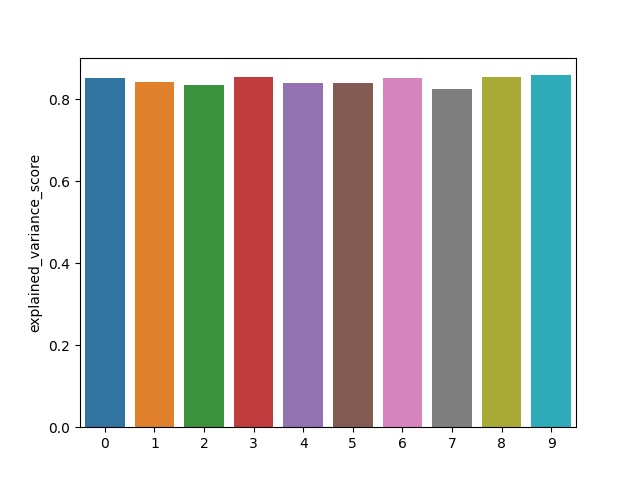
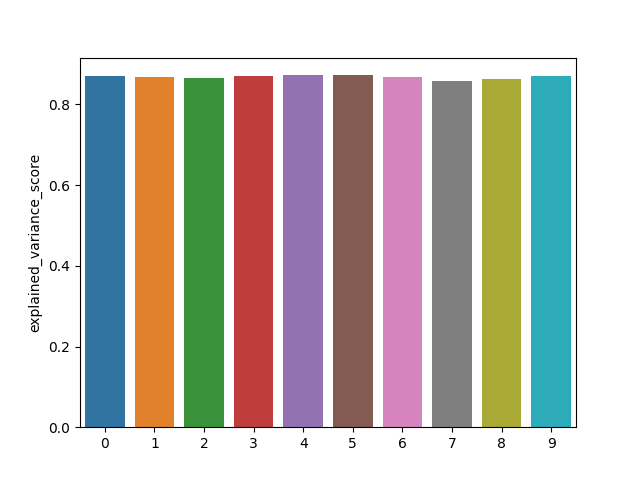
results

diff --git a/main.py b/main.py
@@ -1,4 +1,5 @@
 from Models.RNModels.rn_model import RNModel
+from Models.CNNRNModel.cnn_rn_model import CNNRNModel
 from Models.ADABoostModels.ada_boost_model import ADABoostModel
 from Models.RandomForestModels.random_forest_model import RandomForestModel
 from Models.SVMModel.svm_model import SVMModel
@@ -11,29 +12,32 @@ if __name__ == '__main__':
     ml_comparer_obj = MLComparer()
     ml_comparer_obj.initialize()
 
-    trained_rn_model = ml_comparer_obj.compare_training("RM_Model", RNModel(), 70)
+    trained_rn_model = ml_comparer_obj.compare_training("RM_Model", RNModel(), 5)
     ml_comparer_obj.compare_benchmark("RM_Model", trained_rn_model)
+
+    trained_cnn_rn_model = ml_comparer_obj.compare_training("CNN_RM_Model", CNNRNModel(), 10)
+    ml_comparer_obj.compare_benchmark("CNN_RM_Model", trained_cnn_rn_model)
     
-    # trained_adaboost_model = ml_comparer_obj.compare_training("ADABoost_Model", ADABoostModel(), 10)
-    # ml_comparer_obj.compare_benchmark("ADABoost_Model", trained_adaboost_model)
-    #
-    # trained_svm_model = ml_comparer_obj.compare_training("SVM_Model", SVMModel(), 10)
-    # ml_comparer_obj.compare_benchmark("SVM_Model", trained_svm_model)
-    #
-    # trained_random_forest_model = ml_comparer_obj.compare_training("RandomForest_Model", RandomForestModel(), 10)
-    # ml_comparer_obj.compare_benchmark("RandomForest_Model", trained_random_forest_model)
+    trained_adaboost_model = ml_comparer_obj.compare_training("ADABoost_Model", ADABoostModel(), 10)
+    ml_comparer_obj.compare_benchmark("ADABoost_Model", trained_adaboost_model)
+
+    trained_svm_model = ml_comparer_obj.compare_training("SVM_Model", SVMModel(), 3)
+    ml_comparer_obj.compare_benchmark("SVM_Model", trained_svm_model)
+
+    trained_random_forest_model = ml_comparer_obj.compare_training("RandomForest_Model", RandomForestModel(), 10)
+    ml_comparer_obj.compare_benchmark("RandomForest_Model", trained_random_forest_model)
 
     # Compare training of KNN models with different k values
 
-    # trained_knn_uniform_model = ml_comparer_obj.compare_training("KNN_Uniform_Model", KNNModel(weights="uniform"),  15,
-    #                                                              KNNManager.train_model_get_specs)
+    trained_knn_uniform_model = ml_comparer_obj.compare_training("KNN_Uniform_Model", KNNModel(weights="uniform"),  15,
+                                                                 KNNManager.train_model_get_specs)
 
-    # ml_comparer_obj.compare_benchmark("KNN_Uniform_Model", trained_knn_uniform_model)
+    ml_comparer_obj.compare_benchmark("KNN_Uniform_Model", trained_knn_uniform_model)
 
-    # trained_knn_distance_model = ml_comparer_obj.compare_training("KNN_Distance_Model", KNNModel(weights="distance"),  15,
-    #                                                               KNNManager.train_model_get_specs)
+    trained_knn_distance_model = ml_comparer_obj.compare_training("KNN_Distance_Model", KNNModel(weights="distance"),  15,
+                                                                  KNNManager.train_model_get_specs)
 
-    # ml_comparer_obj.compare_benchmark("KNN_Distance_Model", trained_knn_distance_model)
+    ml_comparer_obj.compare_benchmark("KNN_Distance_Model", trained_knn_distance_model)
 
     ml_comparer_obj.dump_comparison()
 
